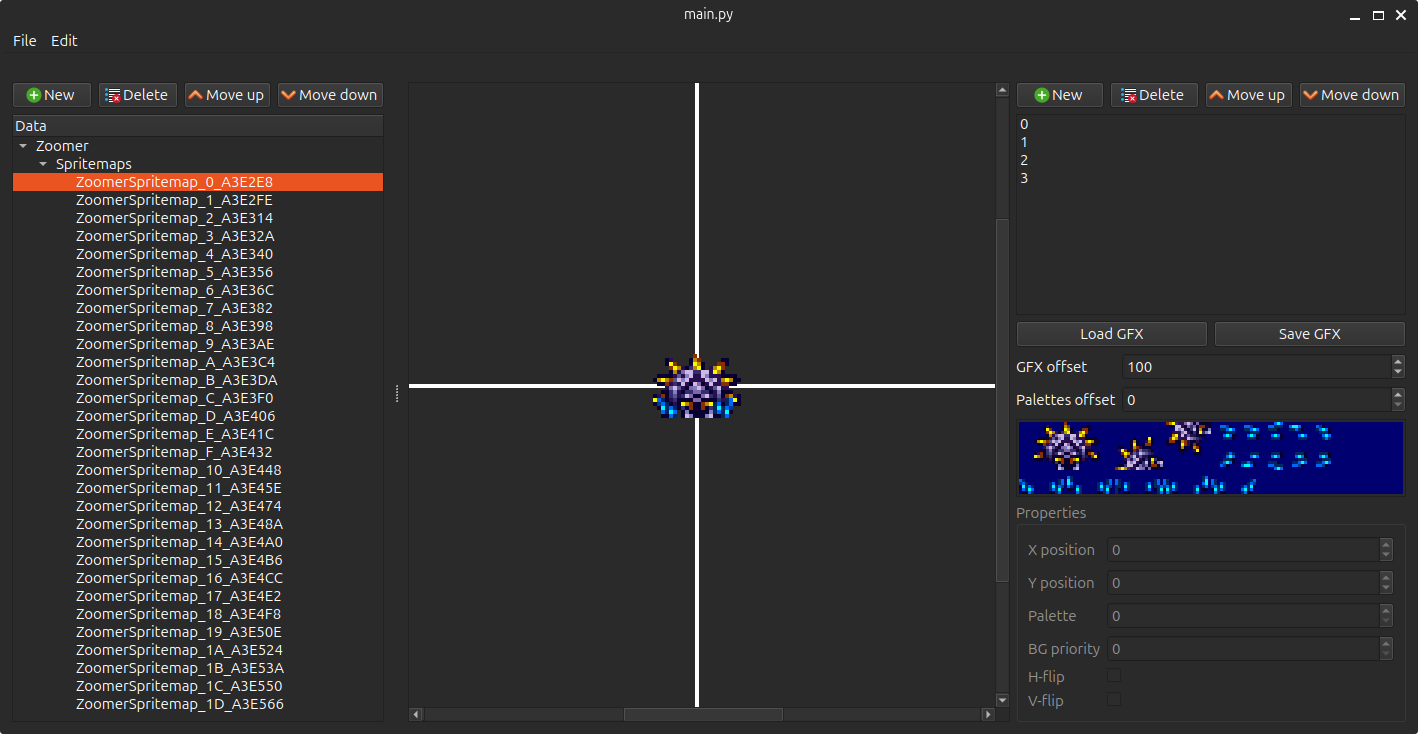
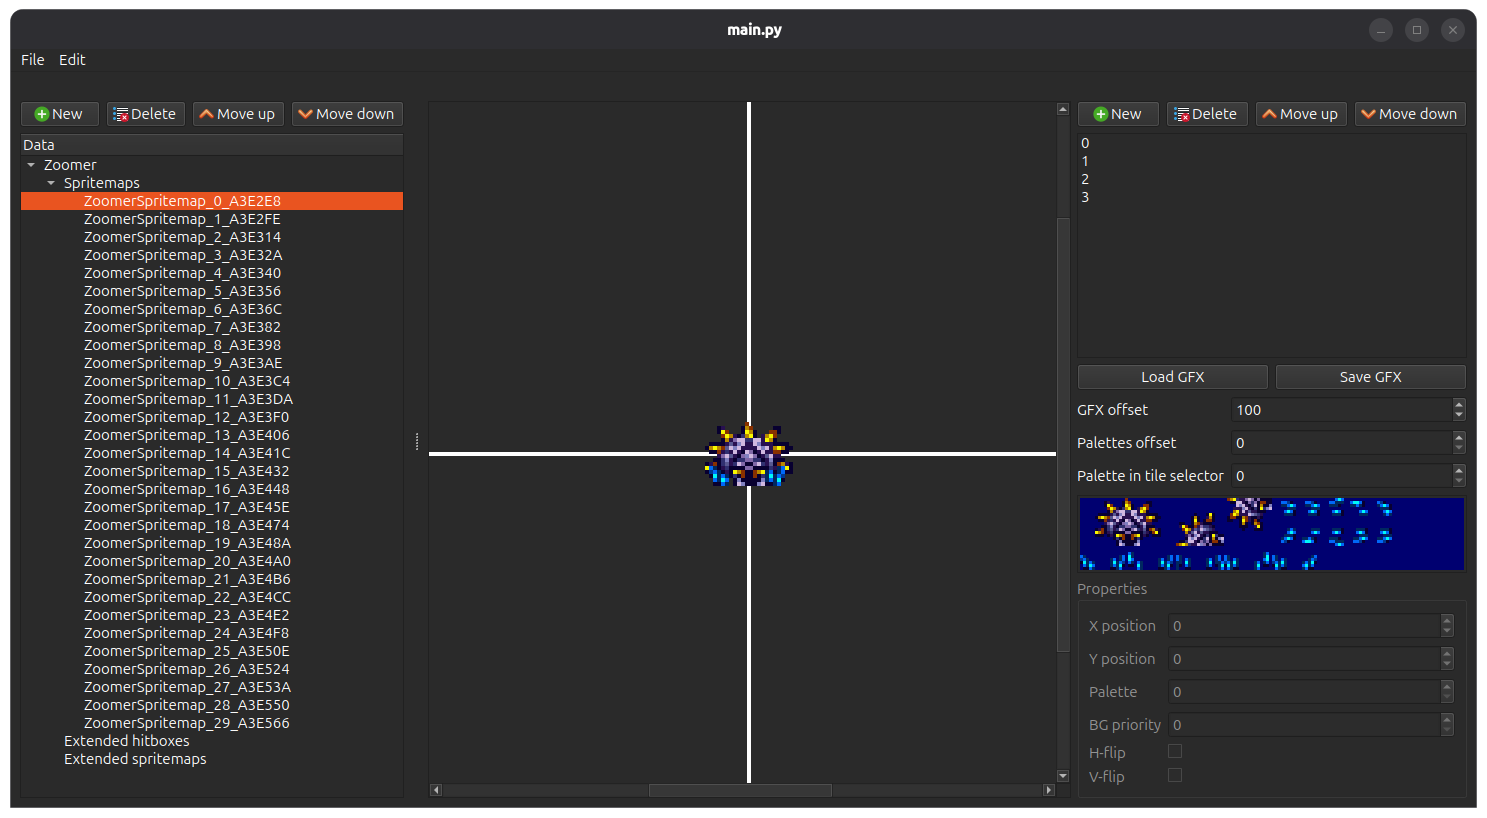
spritemaps are numbered in decimal, fix new project

diff --git a/src/extract_export.py b/src/extract_export.py
@@ -57,7 +57,7 @@ def extract_generic(rom, gfx_addr, gfx_size, gfx_offset, pal_addr, pal_count, pa
             spritemap.append(decode_spritemap_entry(rom.bulk_read_from_snes_address(curr_addr+2+i*5, 5)))
 
         spritemaps.append({
-            'name': f'{name}Spritemap_{spritemap_i:X}_{curr_addr:06X}',
+            'name': f'{name}Spritemap_{spritemap_i}_{curr_addr:06X}',
             'spritemap': spritemap
         })
         curr_addr += 2+count*5
@@ -94,7 +94,7 @@ def extract_generic(rom, gfx_addr, gfx_size, gfx_offset, pal_addr, pal_count, pa
                 break
 
             ext_hitboxes.append({
-                'name': f'{name}Hitbox_{hitbox_i:X}_{curr_addr:06X}',
+                'name': f'{name}Hitbox_{hitbox_i}_{curr_addr:06X}',
                 'spritemap': None,
                 'hitbox': hitbox
             })
@@ -154,7 +154,7 @@ def extract_generic(rom, gfx_addr, gfx_size, gfx_offset, pal_addr, pal_count, pa
                 break
 
             ext_spritemaps.append({
-                'name': f'{name}ExtSpritemap_{ext_spritemap_i:X}_{curr_addr:06X}',
+                'name': f'{name}ExtSpritemap_{ext_spritemap_i}_{curr_addr:06X}',
                 'ext_spritemap': ext_spritemap
             })
             curr_addr += 2+count*8

diff --git a/src/main_window.py b/src/main_window.py
@@ -62,8 +62,8 @@ class MainWindow(QMainWindow):
             self.data = data = {
                 'game': 'sm',
                 'name': 'NewProject',
-                'gfx': '',
-                'palette': [0]*16,
+                'gfx': str(base64.b64encode(b'\0'*0x400), 'utf8'),
+                'palette': [0xFF000000]*16,
                 'gfx_offset': 0,
                 'palette_offset': 0,
                 'spritemaps': [],
